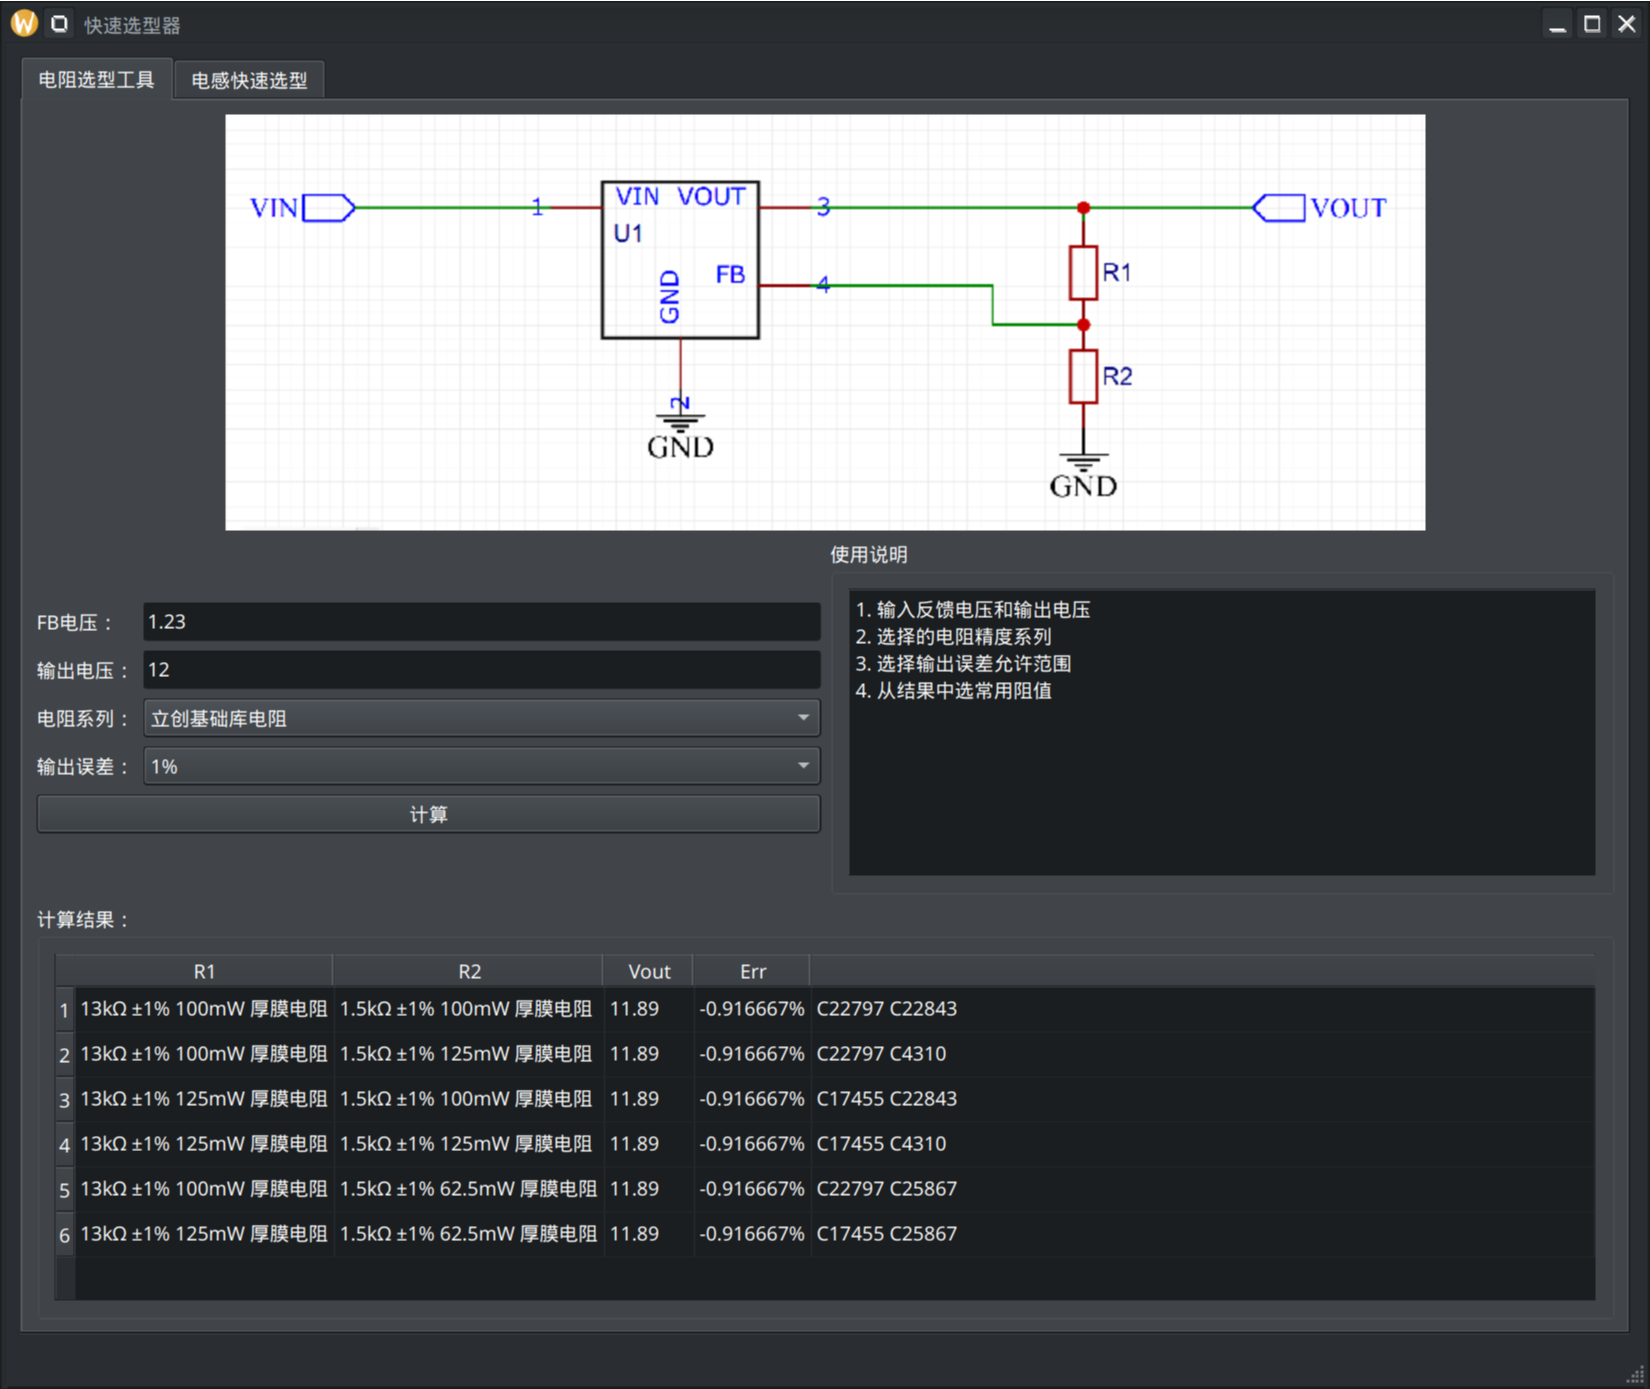
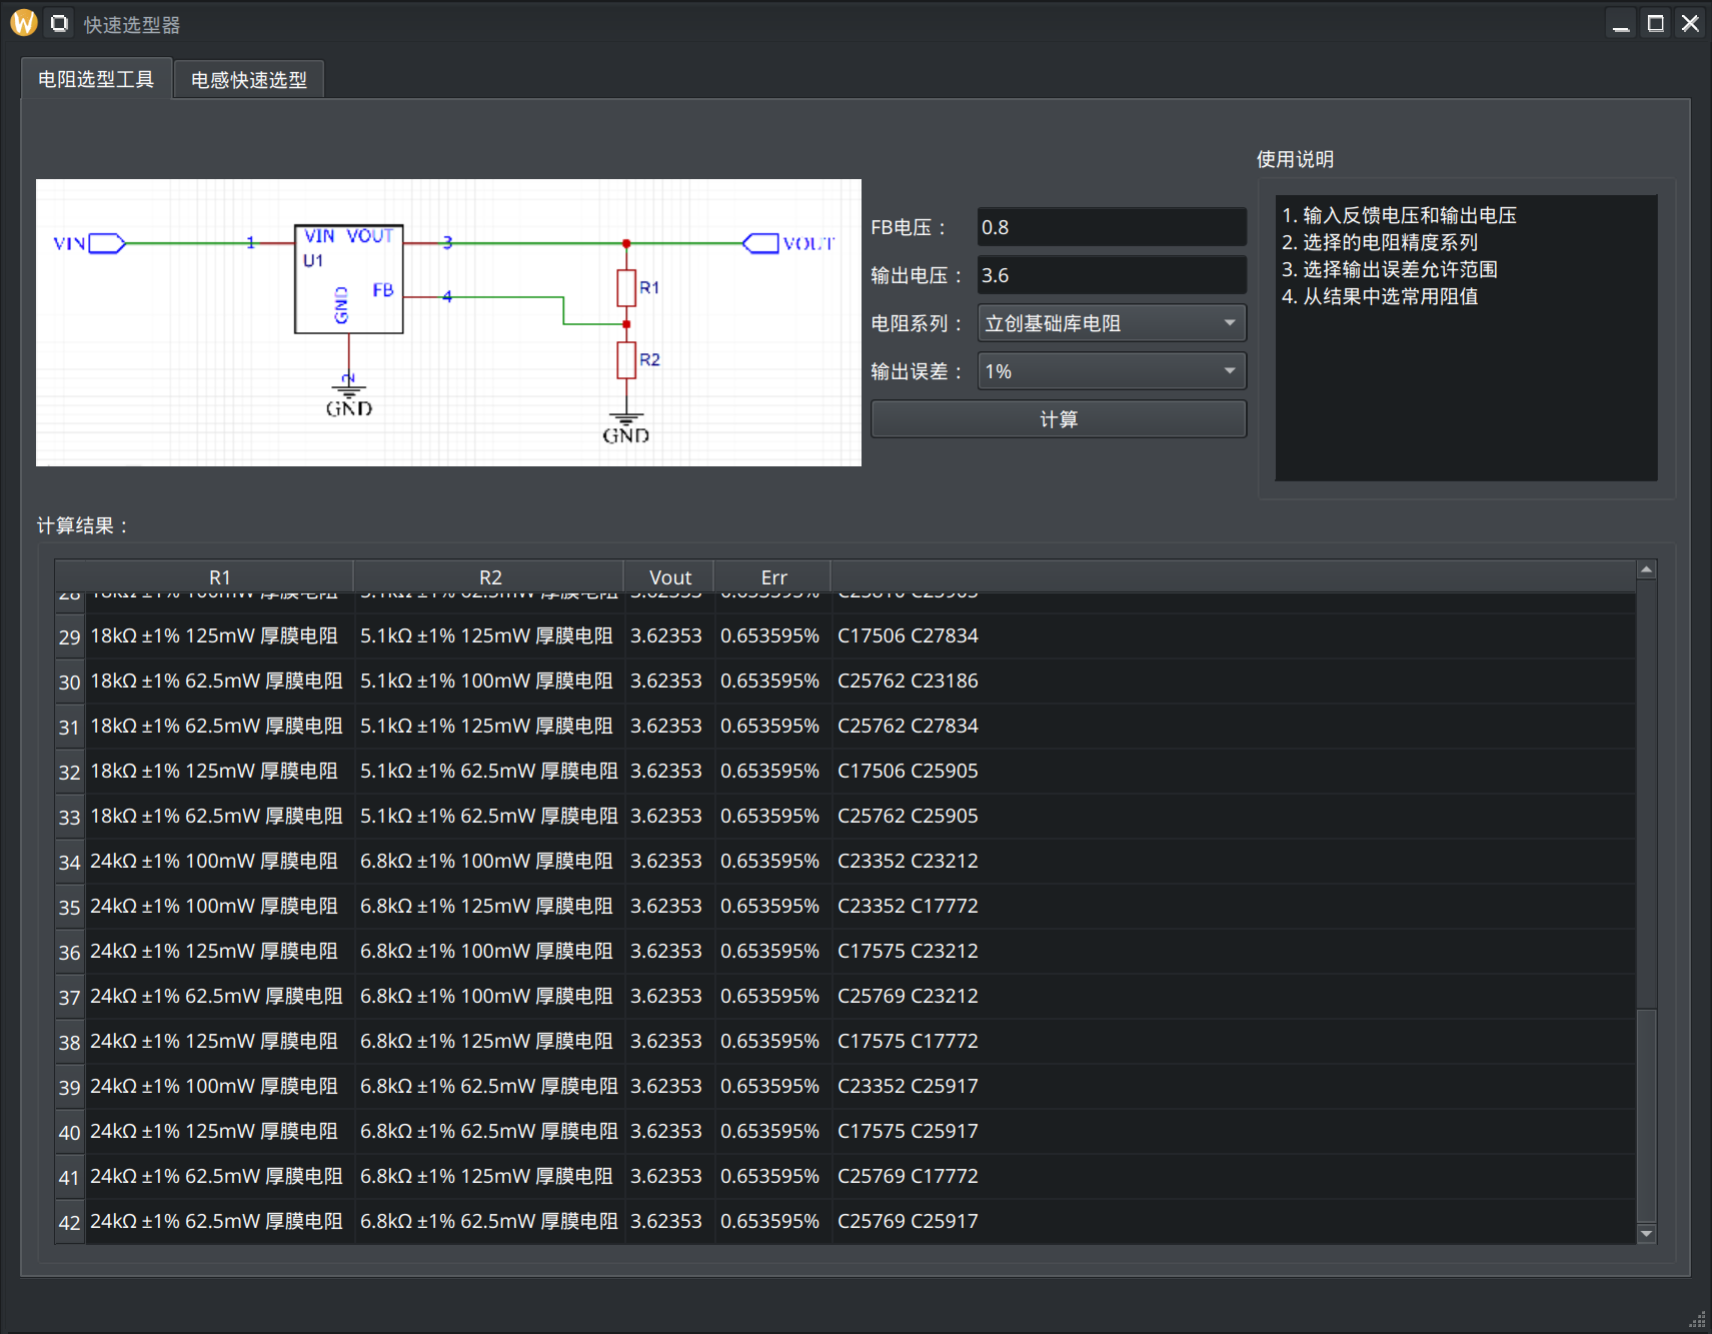
update readme picture

diff --git a/src/R_select_window.cpp b/src/R_select_window.cpp
@@ -11,7 +11,7 @@ R_select_window::R_select_window(QWidget* parent, Qt::WindowFlags f)
     : QWidget(parent, f)
 {
     setupUi(this);
-    pic_show->setPixmap(QPixmap(":/images/res/dcdc.png").scaledToWidth(800));
+    pic_show->setPixmap(QPixmap(":/images/res/dcdc.png").scaledToWidth(550));
 
     connect(fb_voltage, SIGNAL(editingFinished()), this, SLOT(check_caculatable()));
     connect(out_voltage, SIGNAL(editingFinished()), this, SLOT(check_caculatable()));
